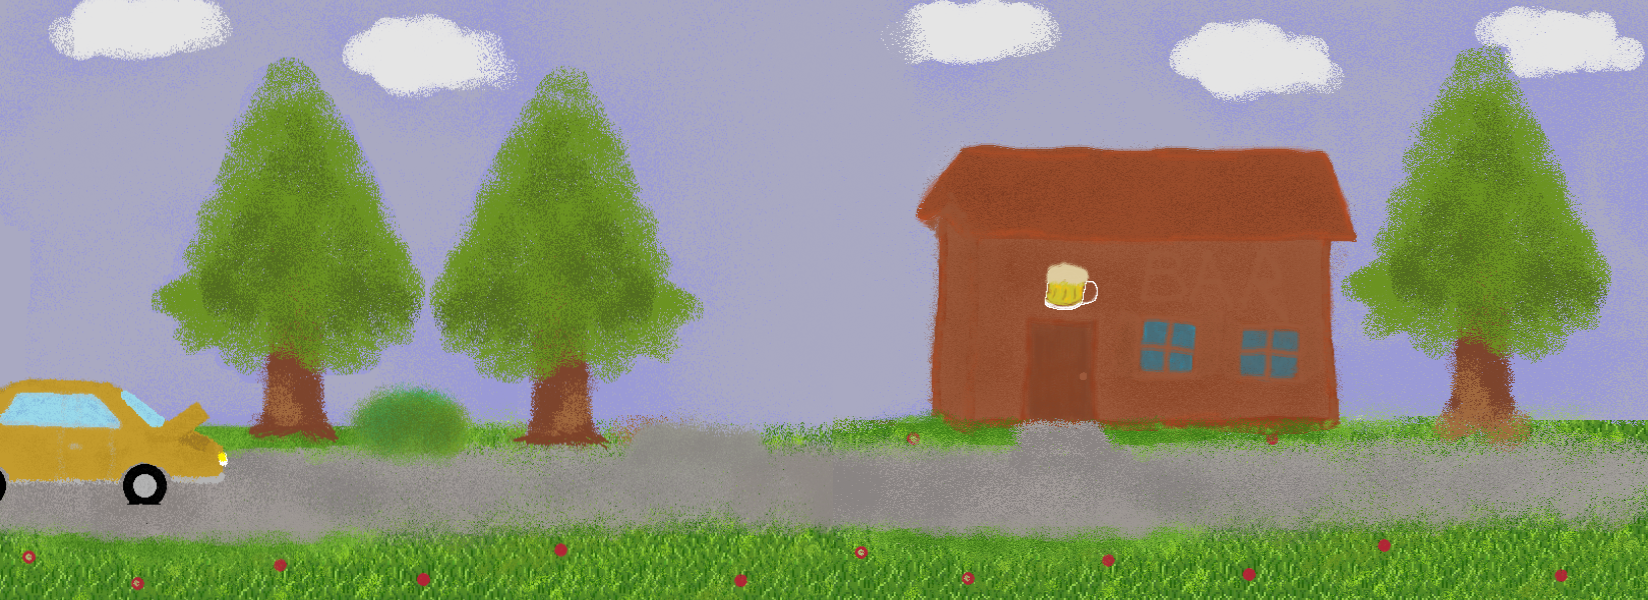
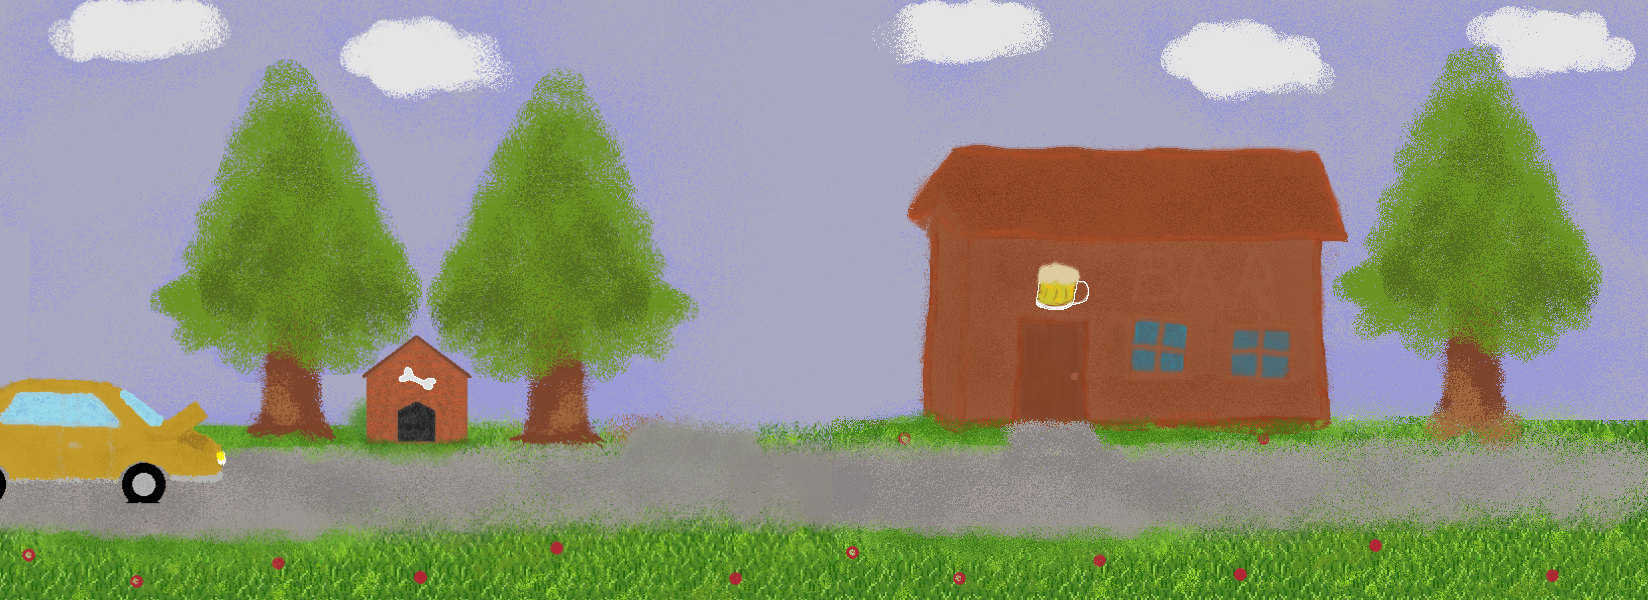
bouda

diff --git a/hra.py b/hra.py
@@ -98,7 +98,7 @@ def soucet_vsech_baits():
 okno_sirka = 800
 okno_vyska = 600
 
-hrac_pozice_x = 380
+hrac_pozice_x = 508
 hrac_pozice_y = 315
 hrac_rychlost = 4
 hrac_aktualni_rychlost = 4
@@ -111,7 +111,7 @@ info_shop = 920
 info_dum = 190
 info_vnitrek_domu = 750
 
-kamera_x = 0
+kamera_x = 108
 
 
 
@@ -581,7 +581,6 @@ barman_exit = pygame.draw.rect(okno, hneda, (10, 545 , 100, 50))
 
 slotmachine = pygame.image.load("slotmachine.png")
 garaz = pygame.image.load("garaz.png")
-bouda = pygame.image.load("bouda.png")
 
 
 pozadi = rozcestnik
@@ -866,7 +865,7 @@ while not hra:
 
 
 while hra is True:
-    print(hrac_pozice_x)
+    print(hrac_pozice_x, kamera_x)
 # OVLADANI HRY HRACEM
     mouse_click = False
     
@@ -1089,9 +1088,9 @@ while hra is True:
             
             pozadi = rozcestnik
             prechod_lock_garaz_a_rozcestnik = True
-            hrac_pozice_x = 500
+            hrac_pozice_x = 508
             hrac_rychlost = 4
-            kamera_x = 100
+            kamera_x = 108
             pozadi_sirka = pozadi.get_width()
             pozadi_vyska = pozadi.get_height()
         
@@ -1260,7 +1259,10 @@ while hra is True:
                 hlad += hlad_pivo
                 coins -= pivo_cena
             
-        
+    stojim_u_boudy = hrac_pozice_x > 320 and hrac_pozice_x < 415
+    
+    if stojim_u_boudy and pozadi == rozcestnik:
+        pass
 
     
         
@@ -1882,9 +1884,11 @@ while hra is True:
             pygame.draw.rect(okno, cerna, za_zapnuti_statistik)
             pygame.draw.rect(okno, hneda, zapnuti_statistik)
             okno.blit(zapnuti_statistik_ikona, (360, 565, 80, 30))
-
-    if pozadi == venek:
-        okno.blit(bouda, (info_bouda_obrazovka_x, 290))
+            
+    if stojim_u_boudy and pozadi == rozcestnik:
+        pygame.draw.rect(okno, cerna, (info_rozcestnik_obrazovka_x - 1180, 249, 52, 52))
+        pygame.draw.rect(okno, bila, (info_rozcestnik_obrazovka_x - 1179, 250, 50, 50))
+        okno.blit(E_text, (info_rozcestnik_obrazovka_x - 1179 + (50/2 - E_text.get_size()[0] / 2), 263))
     
     if zapnuti and not inventar and pozadi != bar and pozadi != barman and pozadi != shop and not shop_mode == "sell" and not shop_mode == "buy" and not prut and not minihra and pozadi != pozadi_shop_jidlo:
         pygame.draw.rect(okno, cerna, za_vypnuti_statistik)
